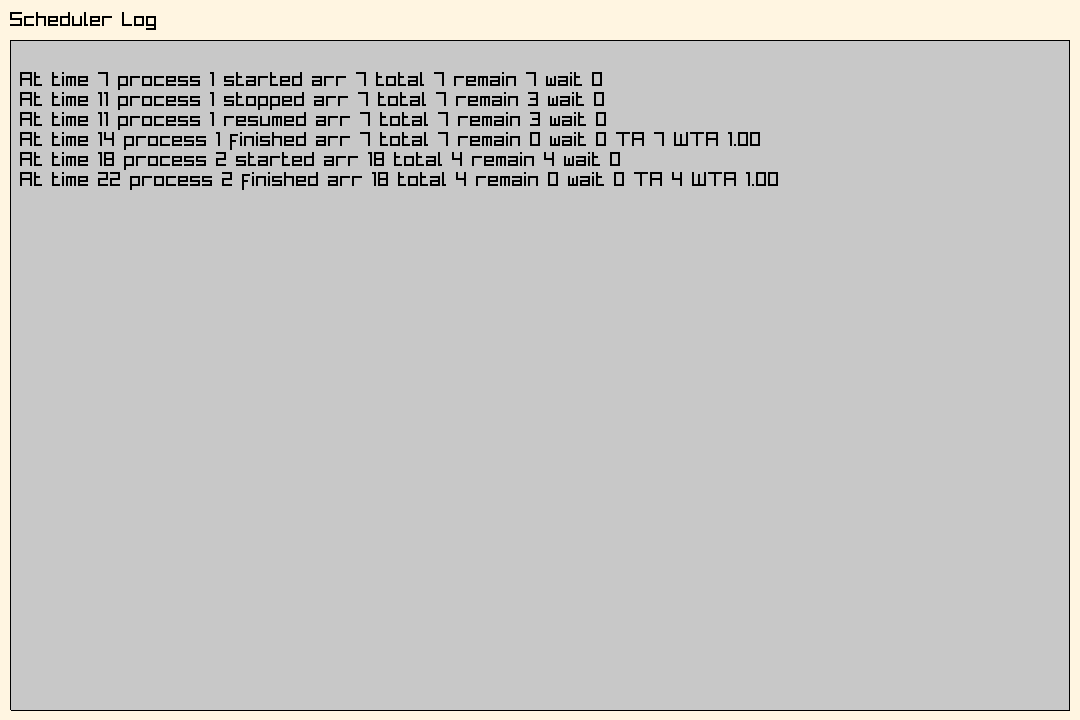
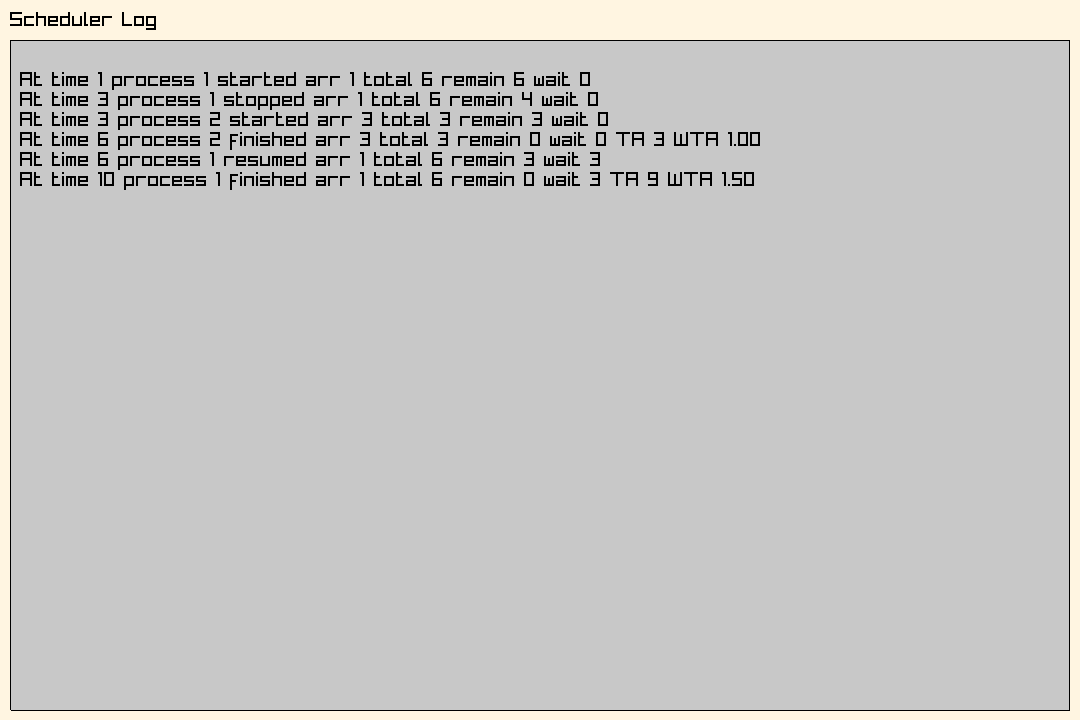
fix: srtn basic sync problem

Changed region(s): [[0.0917, 0.1528, 0.7333, 0.275], [0.0917, 0.0917, 0.5806, 0.1833]]

diff --git a/code/scheduler.c b/code/scheduler.c
@@ -584,13 +584,14 @@ void preemptProcess(process_t *process) {
     printf(ANSI_GREY "==>SCH: Preempting process with id = %i\n" ANSI_RESET,
            process->pid);
 
-    if (process->state == RUNNING) {
-      kill(process->pid, SIGSTOP);
-      process->state = STOPPED;
+    // if (process->state == RUNNING) {
+    kill(process->pid, SIGSTOP);
+    process->state = STOPPED;
+    process->LST = getClk();
 
-      // log this
-      logger("stopped", process);
-    }
+    // log this
+    logger("stopped", process);
+    // }
   }
 }
 
@@ -604,15 +605,17 @@ void resumeProcess(process_t *process) {
     printf(ANSI_BLUE "==>SCH: Resuming process with id = %i\n" ANSI_RESET,
            process->pid);
 
-    if (process->state == STOPPED) {
-      kill(process->pid, SIGCONT);
-      process->state = RUNNING;
+    // if (process->state == STOPPED) {
+    kill(process->pid, SIGCONT);
+    process->state = RUNNING;
+    process->WT += getClk() - process->LST;
 
-      started = 1;
+    started = 1;
 
-      // log this
-      logger("resumed", process);
-    }
+    // log this
+    logger("resumed", process);
+    setRemTime(process, getRemTime(process) + 1);
+    // }
   }
 }
 

diff --git a/code/scheduler.h b/code/scheduler.h
@@ -33,6 +33,13 @@ int RRScheduling(void **readyQueue, process_t *process, int *rQuantem);
 void contextSwitch(process_t *newProcess);
 
 //===============================
+// IPC Functions
+//===============================
+int getRemTime(process_t *p);
+void setRemTime(process_t *p, int val);
+void sigUsr1Handler(int signum);
+
+//===============================
 // Preempting Functions
 //===============================
 // TODO: Handle in preempting functions restoring the process state and update
@@ -42,13 +49,6 @@ void contextSwitch(process_t *newProcess);
 void startProcess(process_t *process);
 void preemptProcess(process_t *process);
 void resumeProcess(process_t *process);
-
-//===============================
-// IPC Functions
-//===============================
-int getRemTime(process_t *p);
-void setRemTime(process_t *p, int val);
-void sigUsr1Handler(int signum);
 
 //==============================
 // Logging Functions

diff --git a/code/process.c b/code/process.c
@@ -30,7 +30,7 @@ int main(int agrc, char *argv[]) {
   RT = (int *)shmat(shmid, (void *)0, 0);
 
   semid = initSchProSem();
-  
+
   initClk();
 
   printf(ANSI_TEAL "==>process %d: Started\n" ANSI_RESET, getpid());
@@ -46,12 +46,11 @@ int main(int agrc, char *argv[]) {
 
     if (currTime != preTime) {
       preTime = currTime;
-      
+
       down(semid);
       (*RT)--;
       val = *RT;
       up(semid);
-      
     }
 
     currTime = getClk();
